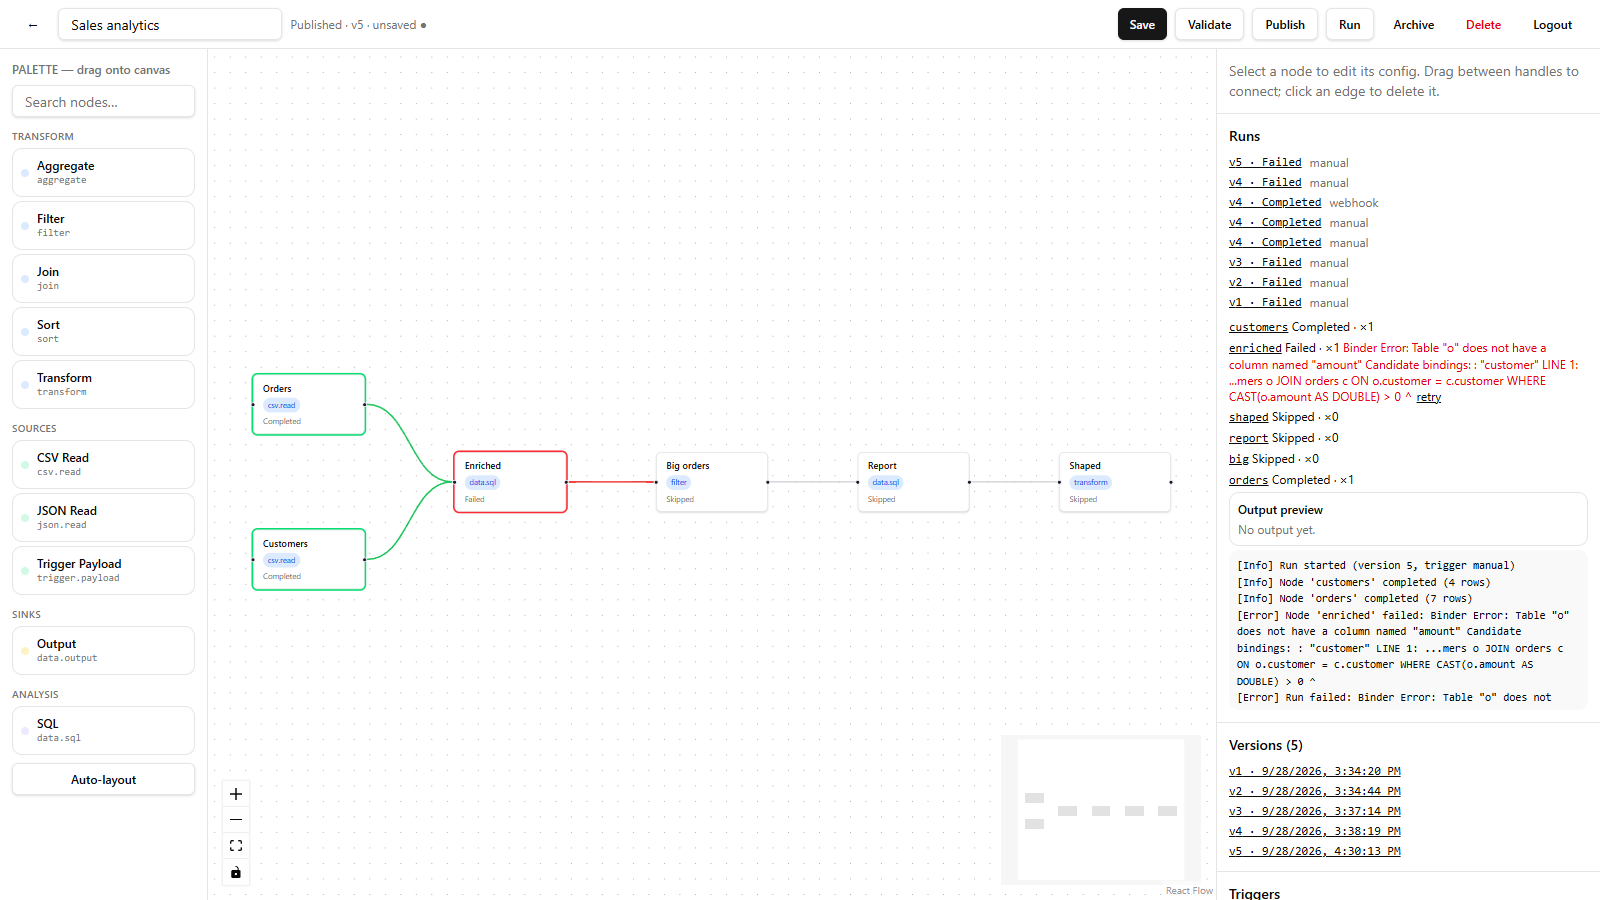
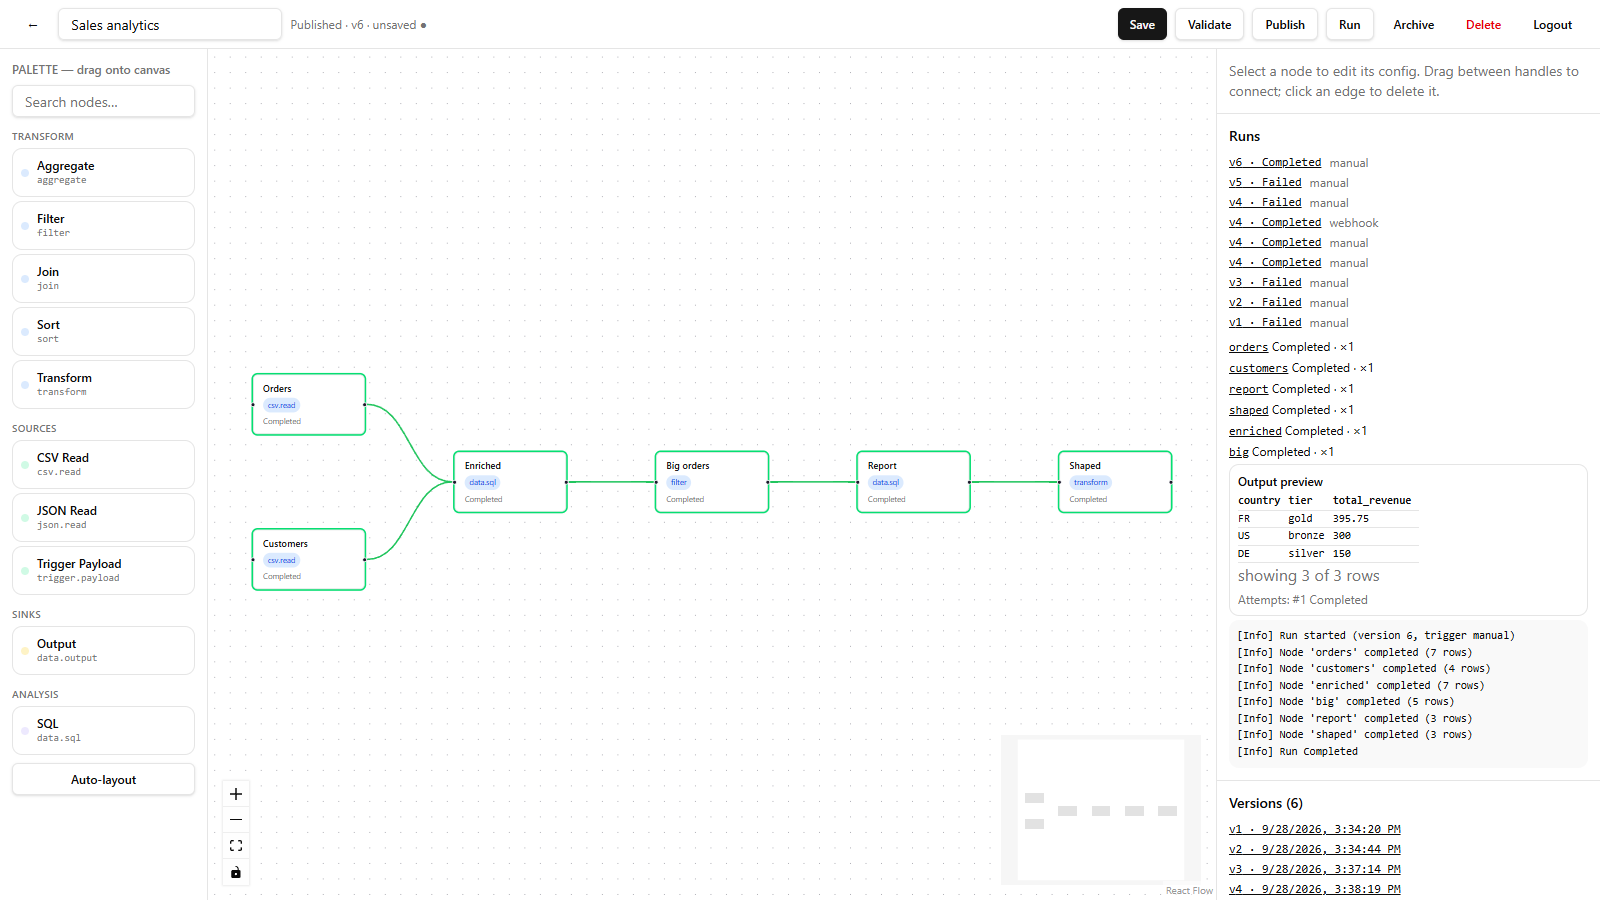
fix: dirty tracking ignores live status and edge styling
Snapshot compares semantic graph content (ids, rounded positions, label/type/config, edge endpoints) so run polling no longer marks the graph unsaved. Re-shoots the run preview on the green v6 run.

diff --git a/frontend/src/pages/PipelineEditorPage.tsx b/frontend/src/pages/PipelineEditorPage.tsx
@@ -239,12 +239,15 @@ const toFlowEdges = (edges: PipelineEdge[]): Edge[] =>
 const snapshot = (name: string, nodes: Node[], edges: Edge[]) =>
   JSON.stringify({
     name,
-    nodes: nodes.map(n => ({
-      id: n.id,
-      position: n.position,
-      data: { label: (n.data as unknown as FlowNodeData).label, nodeType: (n.data as unknown as FlowNodeData).nodeType, configJson: (n.data as unknown as FlowNodeData).configJson },
-    })),
-    edges,
+    nodes: nodes.map(n => {
+      const d = n.data as unknown as FlowNodeData
+      return {
+        id: n.id,
+        position: { x: Math.round(n.position.x), y: Math.round(n.position.y) },
+        data: { label: d.label, nodeType: d.nodeType, configJson: d.configJson },
+      }
+    }),
+    edges: edges.map(e => ({ s: e.source, t: e.target })),
   })
 
 export function PipelineEditorPage({ pipelineId, onBack, onLogout }: Props) {
